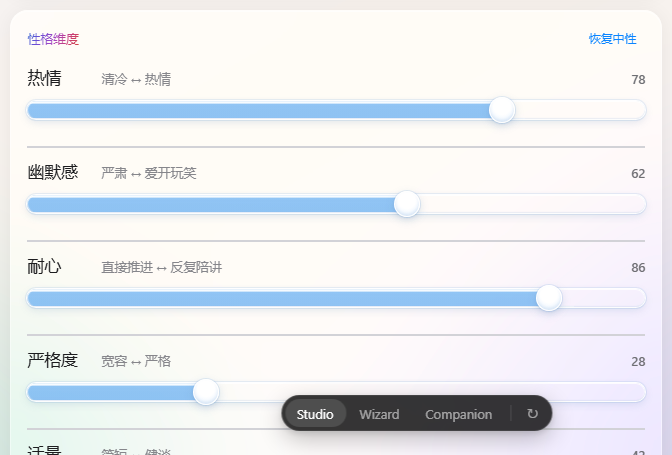
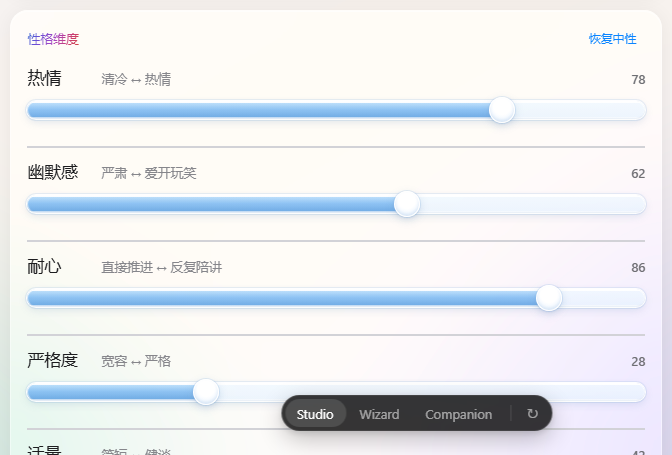
style(proto): 冰块滑条 — 把蓝色里的渐变加回来
v7 为了去掉模糊，把填充做成了均色 rgba(74,158,236,.58)，
渐变被一起去掉了。

现在按"有厚度但不糊"的标准加回来：
- 只给垂直方向，只 3 个色标（多色标柔过渡才是糊的来源）
    顶部 rgba(140,203,250,.40)  —— 被镜面高光冲淡
    中间 rgba(74,158,236,.58)
    底部 rgba(46,130,212,.68)   —— 冰的厚度
- 宽度仍由 background-size: var(--pct) 控制，
  所以右端还是硬边，不会糊
- 进度条填充同步

过程：这次连试三次精确字符串替换都是 0 命中（缩进对不上），
改成按行号插入才成功；顺带清掉一行重复注释。

控制台零错误。

diff --git a/prototypes/Costudy-UI-原型.html b/prototypes/Costudy-UI-原型.html
@@ -1814,13 +1814,12 @@ input[type="range"]::-webkit-slider-runnable-track {
       rgba(255, 255, 255, 0.92) 92%,
       rgba(255, 255, 255, 0.92) 100%
     ),
-    /* ③ 蓝色填充：透明、均色、硬边，不做渐变插值 */
+    /* ③ 蓝色填充：垂直三段渐变，宽度由 background-size 控到 --pct */
     linear-gradient(
-      90deg,
-      rgba(74, 158, 236, 0.58) 0%,
-      rgba(74, 158, 236, 0.58) var(--pct, 50%),
-      rgba(74, 158, 236, 0) var(--pct, 50%),
-      rgba(74, 158, 236, 0) 100%
+      180deg,
+      rgba(140, 203, 250, 0.4) 0%,
+      rgba(74, 158, 236, 0.58) 46%,
+      rgba(46, 130, 212, 0.68) 100%
     ),
     /* ④ 冰体：极淡蓝、接近透明 */
     linear-gradient(
@@ -1828,6 +1827,12 @@ input[type="range"]::-webkit-slider-runnable-track {
       rgba(240, 248, 255, 0.82) 0%,
       rgba(228, 241, 254, 0.68) 100%
     );
+  background-size:
+    100% 100%,
+    100% 100%,
+    var(--pct, 50%) 100%,
+    100% 100%;
+  background-position: 0 0, 0 0, 0 0, 0 0;
   background-repeat: no-repeat;
   /* 外壁饱满：白圈 + 淡蓝圈 + 顶壁强高光 + 底壁暗边 + 投影 */
   box-shadow:
@@ -1917,7 +1922,12 @@ input[type="range"]:active::-webkit-slider-thumb {
   height: 100%;
   border-radius: var(--r-full);
   /* 透明的蓝，硬边，不插值 */
-  background: rgba(74, 158, 236, 0.58);
+  background-image: linear-gradient(
+    180deg,
+    rgba(140, 203, 250, 0.4) 0%,
+    rgba(74, 158, 236, 0.58) 46%,
+    rgba(46, 130, 212, 0.68) 100%
+  );
   box-shadow: inset 0 1px 0 rgba(255, 255, 255, 0.75);
   transition: width var(--dur-modal) var(--ease-out);
 }

diff --git a/prototypes/costudy-ui/liquid-glass.css b/prototypes/costudy-ui/liquid-glass.css
@@ -1014,13 +1014,12 @@ input[type="range"]::-webkit-slider-runnable-track {
       rgba(255, 255, 255, 0.92) 92%,
       rgba(255, 255, 255, 0.92) 100%
     ),
-    /* ③ 蓝色填充：透明、均色、硬边，不做渐变插值 */
+    /* ③ 蓝色填充：垂直三段渐变，宽度由 background-size 控到 --pct */
     linear-gradient(
-      90deg,
-      rgba(74, 158, 236, 0.58) 0%,
-      rgba(74, 158, 236, 0.58) var(--pct, 50%),
-      rgba(74, 158, 236, 0) var(--pct, 50%),
-      rgba(74, 158, 236, 0) 100%
+      180deg,
+      rgba(140, 203, 250, 0.4) 0%,
+      rgba(74, 158, 236, 0.58) 46%,
+      rgba(46, 130, 212, 0.68) 100%
     ),
     /* ④ 冰体：极淡蓝、接近透明 */
     linear-gradient(
@@ -1028,6 +1027,12 @@ input[type="range"]::-webkit-slider-runnable-track {
       rgba(240, 248, 255, 0.82) 0%,
       rgba(228, 241, 254, 0.68) 100%
     );
+  background-size:
+    100% 100%,
+    100% 100%,
+    var(--pct, 50%) 100%,
+    100% 100%;
+  background-position: 0 0, 0 0, 0 0, 0 0;
   background-repeat: no-repeat;
   /* 外壁饱满：白圈 + 淡蓝圈 + 顶壁强高光 + 底壁暗边 + 投影 */
   box-shadow:
@@ -1117,7 +1122,12 @@ input[type="range"]:active::-webkit-slider-thumb {
   height: 100%;
   border-radius: var(--r-full);
   /* 透明的蓝，硬边，不插值 */
-  background: rgba(74, 158, 236, 0.58);
+  background-image: linear-gradient(
+    180deg,
+    rgba(140, 203, 250, 0.4) 0%,
+    rgba(74, 158, 236, 0.58) 46%,
+    rgba(46, 130, 212, 0.68) 100%
+  );
   box-shadow: inset 0 1px 0 rgba(255, 255, 255, 0.75);
   transition: width var(--dur-modal) var(--ease-out);
 }
